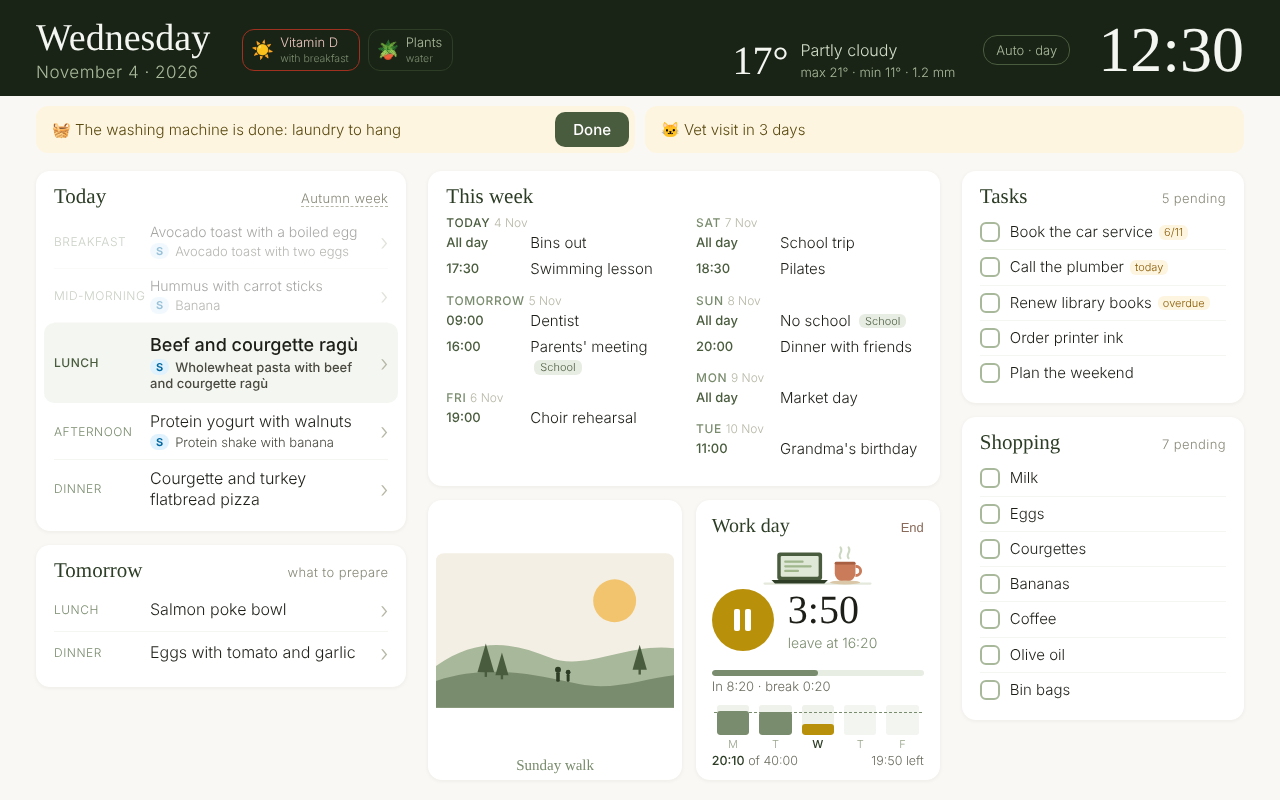
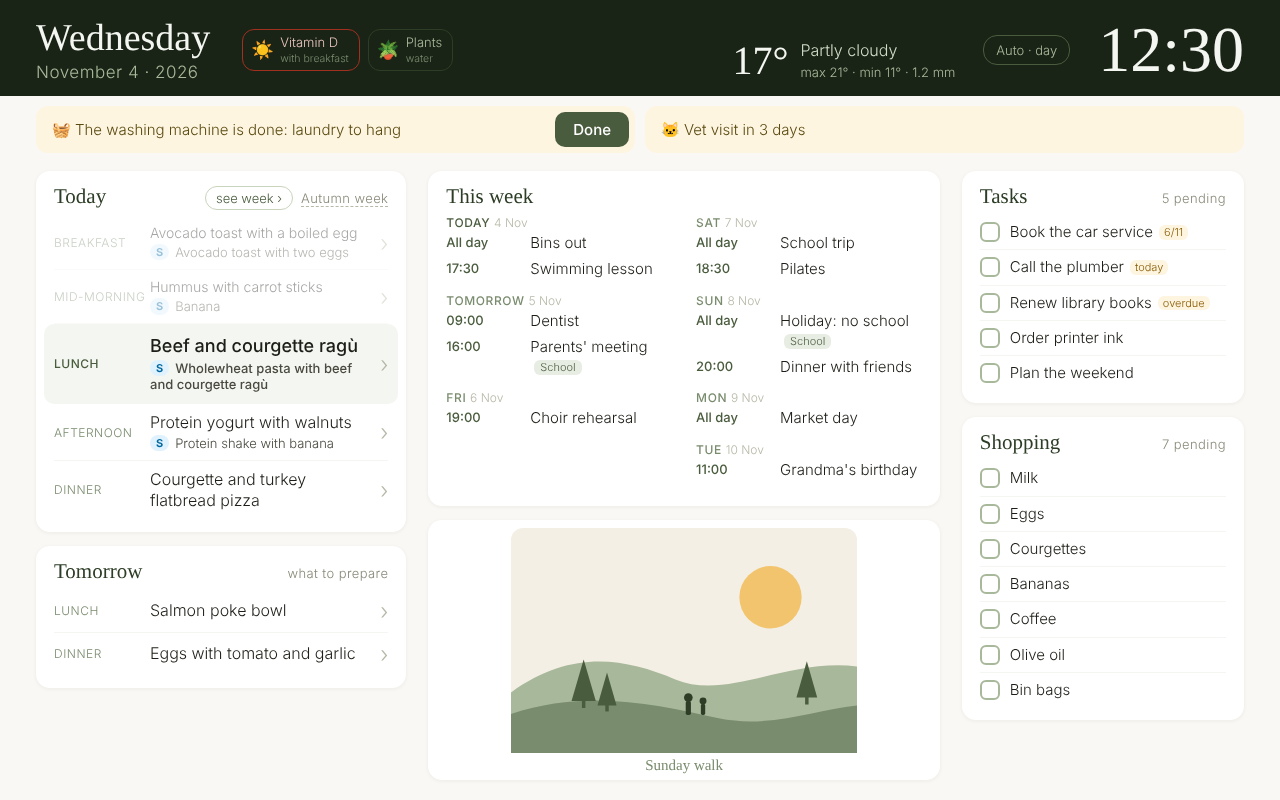
Menu for the whole week: "see week" modal with ‹ › and recipes
Claude-Session: https://claude.ai/code/session_01XFa5nRVnwC7EDj78HJYt1f

diff --git a/panel/app.js b/panel/app.js
@@ -36,6 +36,7 @@
   /* ───────── Static labels ───────── */
   function renderLabels() {
     $('hToday').innerHTML = esc(T('todayMeals'));
+    $('mealWeekBtn').innerHTML = esc(T('mwOpen'));
     $('hTomorrow').innerHTML = esc(T('tomorrow'));
     $('hTomorrowHint').innerHTML = esc(T('tomorrowHint'));
     $('hWeek').innerHTML = esc(T('thisWeek'));
@@ -114,6 +115,50 @@
   }
   function closeModal() { $('modal').className = 'modal'; $('modal').innerHTML = ''; }
 
+  /* The menu for a whole week: days in columns, meals in rows; ‹ › changes week.
+     Every day comes from planFor(), so repeated weeks and the week picked by hand apply. */
+  var MW = { anchor: null };
+  function openMealWeek(anchor) {
+    MW.anchor = anchor || MW.anchor || now();
+    var first = mondayOf(MW.anchor), end = addDays(first, 6), todayK = C.dateKey(now()), heads = headMonFirst();
+    var days = [], used = [], label = '', i, j;
+    for (i = 0; i < 7; i++) {
+      var d = addDays(first, i), plan = C.planFor(MENU_DATA, d, CHOSEN);
+      var day = plan && plan.exact ? dayOf(plan) : {};
+      if (plan && plan.exact && !label) label = plan.week.title.split('·')[0].replace(/\s+$/, '');
+      days.push({ date: d, day: day });
+      for (j = 0; j < MEALS.length; j++) if (day[MEALS[j].id]) used[j] = true;
+    }
+    var head = '<th class="mw-rh"></th>', body = '';
+    for (i = 0; i < 7; i++) {
+      head += '<th class="' + (C.dateKey(days[i].date) === todayK ? 'cv-today' : '') + '"><div class="cv-dn"><span>' + esc(heads[i]) + '</span> ' + days[i].date.getDate() + '</div></th>';
+    }
+    for (j = 0; j < MEALS.length; j++) {
+      if (!used[j]) continue;
+      body += '<tr><td class="mw-rh">' + esc(MEALS[j].label) + '</td>';
+      for (i = 0; i < 7; i++) {
+        var dishes = days[i].day[MEALS[j].id], cls = C.dateKey(days[i].date) === todayK ? 'cv-today' : '';
+        var main = dishes && PEOPLE.length ? C.mainDish(dishes[PEOPLE[0].id] || '') : '';
+        if (!dishes) { body += '<td class="' + cls + '"><div class="cv-none">—</div></td>'; continue; }
+        var id = 'w' + i + '_' + j, others = '';
+        for (var p = 1; p < PEOPLE.length; p++) {
+          var o = dishes[PEOPLE[p].id] != null ? C.mainDish(dishes[PEOPLE[p].id]) : '';
+          if (o && o !== main) others += '<div class="mw-other">' + personTag(PEOPLE[p]) + esc(o) + '</div>';
+        }
+        MEAL_ROWS[id] = { meal: MEALS[j], dishes: dishes, when: T('weekdays')[days[i].date.getDay()] + ' ' + days[i].date.getDate(), week: true };
+        body += '<td class="' + cls + '" data-row="' + id + '"><div class="mw-dish">' + esc(main) + '</div>' + others + '</td>';
+      }
+      body += '</tr>';
+    }
+    if (!body) body = '<tr><td colspan="8"><div class="empty">' + esc(T('mwNone')) + '</div></td></tr>';
+    var range = first.getDate() + (first.getMonth() !== end.getMonth() ? ' ' + T('months')[first.getMonth()].slice(0, 3) : '') +
+      ' – ' + end.getDate() + ' ' + T('months')[end.getMonth()].slice(0, 3);
+    var bar = '<span class="cv-btn" data-mw="prev">‹</span><span class="cv-btn" data-mw="next">›</span>' +
+      '<span class="cv-title">' + esc(T('mwTitle', { range: range })) + (label ? ' <em>' + esc(label) + '</em>' : '') + '</span>' +
+      '<span class="cv-btn cv-today-btn" data-mw="today">' + esc(T('mwThisWeek')) + '</span>';
+    openModal('mealweek', bar, '<table class="mw-table"><tr>' + head + '</tr>' + body + '</table><div class="cv-legend">' + esc(T('mwTap')) + '</div>');
+  }
+
   function openMeal(id) {
     var row = MEAL_ROWS[id];
     if (!row) return;
@@ -126,6 +171,8 @@
     }
     body += '<div id="mdRecipe" class="md-recipe"><div class="empty">' + esc(T('recipeSearching')) + '</div></div>';
     openModal('meal', esc(row.when + ' · ' + row.meal.label), body);
+    if (row.week) $('modal').querySelector('.md-close').innerHTML = esc(T('mwBack'));
+    $('modal').setAttribute('data-from', row.week ? 'week' : '');
     var main = C.mainDish(row.dishes[PEOPLE[0].id] || '');
     xhr('GET', '/panel/recipe?q=' + encodeURIComponent(main), null, function (data) { renderRecipe(data && data.recipe); });
   }
@@ -886,6 +933,7 @@
     $('today').onclick = meals;
     $('tomorrow').onclick = meals;
     $('weekLabel').onclick = openPicker;
+    $('mealWeekBtn').onclick = function () { openMealWeek(now()); };
     $('agenda').onclick = function () { openCal('week', now()); };
     var lists = function (ev) {
       var box = this.id;
@@ -902,6 +950,13 @@
       if (mode === 'work' && back) { openWorkWeek(+back.getAttribute('data-back')); return; }
       var wday = closest(ev.target, this, function (e) { return e.getAttribute('data-wday'); });
       if (mode === 'work' && wday) { openWorkDay(WORK.week.days[+wday.getAttribute('data-wday')], WORK.week.back); return; }
+      if (mode === 'mealweek') {
+        var mw = closest(ev.target, this, function (e) { return e.getAttribute('data-mw') || e.getAttribute('data-row'); });
+        if (mw && mw.getAttribute('data-row')) { openMeal(mw.getAttribute('data-row')); return; }
+        if (mw) { var a = mw.getAttribute('data-mw'); openMealWeek(a === 'today' ? now() : addDays(MW.anchor, a === 'next' ? 7 : -7)); return; }
+      }
+      if (mode === 'meal' && this.getAttribute('data-from') === 'week' &&
+          closest(ev.target, this, function (e) { return e.className === 'md-close'; })) { openMealWeek(); return; }
       if (mode === 'cal') {
         var cv = closest(ev.target, this, function (e) { return e.getAttribute('data-cal') || e.getAttribute('data-day'); });
         if (cv) { calClick(cv); return; }

diff --git a/tests/e2e/panel.e2e.js b/tests/e2e/panel.e2e.js
@@ -66,6 +66,32 @@ async function scenario(name, fn) {
     assert.strictEqual(await p.getAttribute('#modal', 'class'), 'modal');
   });
 
+  await scenario('panel-meal-week: "see week" opens the 7 days, ‹ › and a dish opens its recipe with a way back', async () => {
+    const p = await page(browser);
+    await p.click('#mealWeekBtn');
+    await p.waitForTimeout(300);
+    assert.strictEqual(await p.getAttribute('#modal', 'data-mode'), 'mealweek');
+    assert.strictEqual(await p.locator('#modal .mw-table th').count(), 8);
+    const rows = await p.$$eval('#modal .mw-table .mw-rh', (els) => els.map((e) => e.textContent).filter(Boolean));
+    assert.deepStrictEqual(rows, ['Breakfast', 'Mid-morning', 'Lunch', 'Afternoon', 'Dinner']);
+    assert.ok((await p.textContent('#modal td.cv-today')).length > 0, 'today column highlighted');
+    if (SHOTS) await p.screenshot({ path: SHOTS + '/meal-week.png' });
+    const title = await p.textContent('#modal .cv-title');
+    await p.click('#modal [data-mw="next"]');
+    assert.notStrictEqual(await p.textContent('#modal .cv-title'), title);
+    await p.click('#modal [data-mw="today"]');
+    assert.strictEqual(await p.textContent('#modal .cv-title'), title);
+    await p.click('#modal td.cv-today[data-row]');
+    await p.waitForTimeout(500);
+    assert.strictEqual(await p.getAttribute('#modal', 'data-mode'), 'meal');
+    assert.ok((await p.textContent('#modal .md-hd')).startsWith('Wednesday'));
+    await p.click('#modal .md-close');
+    assert.strictEqual(await p.getAttribute('#modal', 'data-mode'), 'mealweek');
+    await p.click('#modal .md-close');
+    assert.strictEqual(await p.getAttribute('#modal', 'class'), 'modal');
+    assert.deepStrictEqual(p.errors, []);
+  });
+
   await scenario('panel-i18n: Spanish config translates every fixed text', async () => {
     const p = await page(browser, { config: { LANG: 'es' } });
     assert.strictEqual(await p.textContent('#hToday'), 'Hoy se come');

diff --git a/panel/styles.css b/panel/styles.css
@@ -435,3 +435,20 @@ html.night .wb-off .wb-col { background: repeating-linear-gradient(135deg, #1d24
 /* the coffee drawing never shrinks: if it does not fit whole it is hidden (wk-tight) */
 .wk-cafe { -webkit-flex-shrink: 0; flex-shrink: 0; }
 .card-work > div { -webkit-flex-shrink: 0; flex-shrink: 0; }
+
+/* The menu for a whole week */
+.mw-open { font-size: 13px; color: #4a5c3e; border: 1px solid #c8d4bc; border-radius: 14px; padding: 3px 10px; margin: 0 8px 0 auto; white-space: nowrap; }
+.md-mealweek { width: 94%; max-width: 1180px; height: 92%; max-height: 92%; }
+.md-mealweek .md-hd { display: -webkit-flex; display: flex; -webkit-align-items: center; align-items: center; padding: 14px 18px 10px; font-family: Roboto, Arial, sans-serif; }
+.md-mealweek .md-body { display: -webkit-flex; display: flex; -webkit-flex-direction: column; flex-direction: column; padding: 0 14px 6px; overflow: auto; }
+.mw-table { -webkit-flex: 1; flex: 1; width: 100%; border-collapse: collapse; table-layout: fixed; }
+.mw-table th { height: 34px; vertical-align: bottom; text-align: left; font-weight: normal; padding: 0 6px; }
+.mw-table td { vertical-align: top; border-top: 1px solid #e8ede4; border-left: 1px solid #e8ede4; padding: 6px; overflow: hidden; }
+.mw-table .mw-rh { width: 84px; border-left: 0; font-size: 11px; color: #7a8c6e; text-transform: uppercase; letter-spacing: .5px; padding-top: 8px; }
+.mw-dish { font-size: 13.5px; line-height: 1.25; color: #1e1e18; max-height: 51px; overflow: hidden; }
+.mw-other { font-size: 12px; line-height: 1.25; color: #4a4a40; margin-top: 3px; max-height: 30px; overflow: hidden; }
+.mw-other .tag { font-size: 9px; padding: 0 4px; margin-right: 4px; vertical-align: 1px; }
+html.night .mw-open { color: #8f9c84; border-color: #2a3324; }
+html.night .mw-table td { border-color: #1d2419; }
+html.night .mw-dish { color: #8f9c84; }
+html.night .mw-other { color: #6c7864; }

diff --git a/panel/i18n.js b/panel/i18n.js
@@ -63,6 +63,12 @@ var I18N = {
     untitled: '(untitled)',
     more: '+{n} more',
     calWeek: 'Week',
+    mwOpen: 'see week ›',
+    mwTitle: 'Menu · {range}',
+    mwThisWeek: 'This week',
+    mwTap: 'Tap a dish to see the recipe',
+    mwBack: '‹ Back to the week',
+    mwNone: 'No menu for this week.',
     calMonth: 'Month',
     loading: 'loading…',
     moreSeeAll: '+{n} more · see all',
@@ -153,6 +159,12 @@ var I18N = {
     untitled: '(sin título)',
     more: '+{n} más',
     calWeek: 'Semana',
+    mwOpen: 'ver semana ›',
+    mwTitle: 'Menú · {range}',
+    mwThisWeek: 'Esta semana',
+    mwTap: 'Toca un plato para ver la receta',
+    mwBack: '‹ Volver a la semana',
+    mwNone: 'No hay menú para esta semana.',
     calMonth: 'Mes',
     loading: 'cargando…',
     moreSeeAll: '+{n} más · ver todo',

diff --git a/panel/index.html b/panel/index.html
@@ -25,7 +25,7 @@
 <main class="grid">
   <section class="col col-meals" id="colMeals">
     <div class="card">
-      <div class="col-hd"><h2 id="hToday"></h2><span class="week" id="weekLabel"></span></div>
+      <div class="col-hd"><h2 id="hToday"></h2><span class="mw-open" id="mealWeekBtn"></span><span class="week" id="weekLabel"></span></div>
       <div id="today"></div>
     </div>
     <div class="card">

diff --git a/README.md b/README.md
@@ -8,7 +8,7 @@ Turn the tablet that sits in a drawer into an always-on family panel: today's me
 
 ## What it does
 
-- **Meals** — today's menu with the current meal highlighted and past ones faded; tomorrow's lunch and dinner ("what to prepare today"). Tap a meal to see everyone's dish and the matching recipe.
+- **Meals** — today's menu with the current meal highlighted and past ones faded; tomorrow's lunch and dinner ("what to prepare today"). Tap a meal to see everyone's dish and the matching recipe, or *see week* for the whole week at a glance.
 - **Agenda** — the next seven days from every Home Assistant calendar (Google Calendar works through its secret iCal address). Tap it for a big calendar: week or month, ‹ › to move, *Today* to come back, one colour per calendar.
 - **Tasks and shopping** — Home Assistant to-do lists; tap an item to tick it off.
 - **Weather, alerts, daily checklist, photos** — "laundry is waiting" banners from HA helpers, reminders before a date, vitamin/plant chips that every screen shares, and pictures filling the free space.

diff --git a/docs/specs/panel-meal-week.md b/docs/specs/panel-meal-week.md
@@ -1,0 +1,12 @@
+# panel-meal-week
+
+**Goal**: see the menu for a whole week, not only today and tomorrow.
+
+**Behaviour**
+- A "see week ›" button in the Today header opens a large modal: one column per day (Monday first), one row per meal of `menu.meals` (meals no day uses are left out). Today's column is highlighted.
+- Each cell shows the first person's main dish and, below, other people's dish when it differs.
+- Every day comes from `planFor`, so repeated weeks and the week picked by hand apply. Days with no week covering them show "—"; a week with nothing shows a message.
+- ‹ › changes week; "This week" comes back.
+- Tapping a dish opens the usual meal detail with its recipe; its button goes back to the week.
+
+**Verification**: e2e `panel-meal-week` (8 header cells, 5 meal rows, today highlighted, ‹ › and back, detail and back, close; no JS errors).

diff --git a/docs/es/guia.md b/docs/es/guia.md
@@ -313,6 +313,10 @@ Compruébalo con `python tools/panel.py validate-menu` y luego `deploy-app`.
 
 **Elegir semana a mano**: toca el nombre de la semana junto a «Hoy se come». La elección la comparten todas las pantallas y `/menu`; elige *Automático* para volver a las fechas. Un menú nuevo aparece el día que empieza.
 
+**La semana entera**: toca **ver semana ›** junto a «Hoy» para ver los siete días de golpe, un día por columna y una comida por fila. ‹ › pasa a otras semanas (útil para la compra), **Esta semana** vuelve, y al tocar un plato se abre su receta con un botón para volver a la semana.
+
+![El menú de toda la semana](../img/meal-week.png)
+
 ## 9. Fuera de casa (Tailscale)
 
 1. **Configuración → Aplicaciones → Instalar aplicación → Tailscale** → instala, inicia, abre su interfaz web e inicia sesión.

diff --git a/docs/guide.md b/docs/guide.md
@@ -311,6 +311,10 @@ Check it with `python tools/panel.py validate-menu`, then `deploy-app`.
 
 **Choosing a week by hand**: tap the week name next to "Today". The choice is shared by every screen and by `/menu`; pick *Automatic* to go back to dates. A new week appears on the day it starts.
 
+**The whole week**: tap **see week ›** next to "Today" to see the seven days at once, one column per day and one row per meal. ‹ › moves to other weeks (handy for the shopping), **This week** comes back, and tapping a dish opens its recipe with a way back to the week.
+
+![The menu for the whole week](img/meal-week.png)
+
 ## 9. Use it away from home (Tailscale)
 
 1. **Settings → Apps → Install app → Tailscale** → install, start, open the web UI and log in.

diff --git a/PROGRESS.md b/PROGRESS.md
@@ -70,3 +70,10 @@
 - Completed: all-day calendar events whose title matches `WORK_TIMER.OFF_WORDS` are days off (only on workdays): week target drops, bar hatched, tag in the week modal; guides EN/ES and spec updated.
 - Verification run: `./init.sh` green, e2e 20/20 (also `OFF_CALENDARS` to skip public holiday calendars).
 - Next best step: unchanged.
+
+## Session
+- Date: 2026-11-23
+- Goal: see the whole week's menu.
+- Completed: `panel-meal-week` — "see week ›" opens the seven days by meal, ‹ ›, recipe with a way back; guides EN/ES, spec, screenshot.
+- Verification run: `./init.sh` green, e2e 21/21.
+- Next best step: unchanged.
